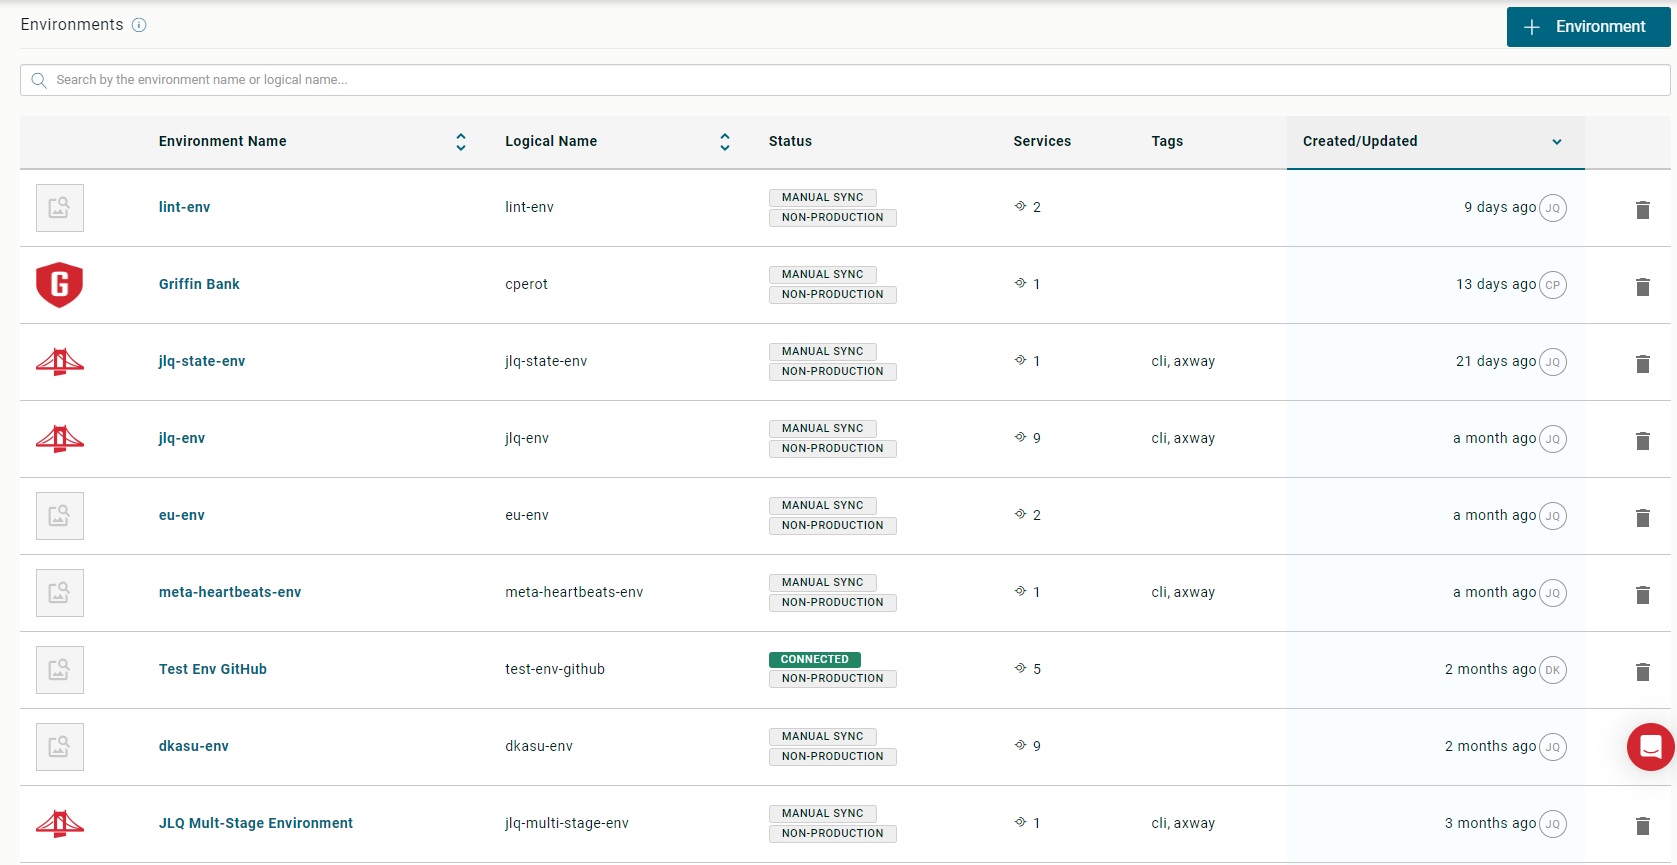
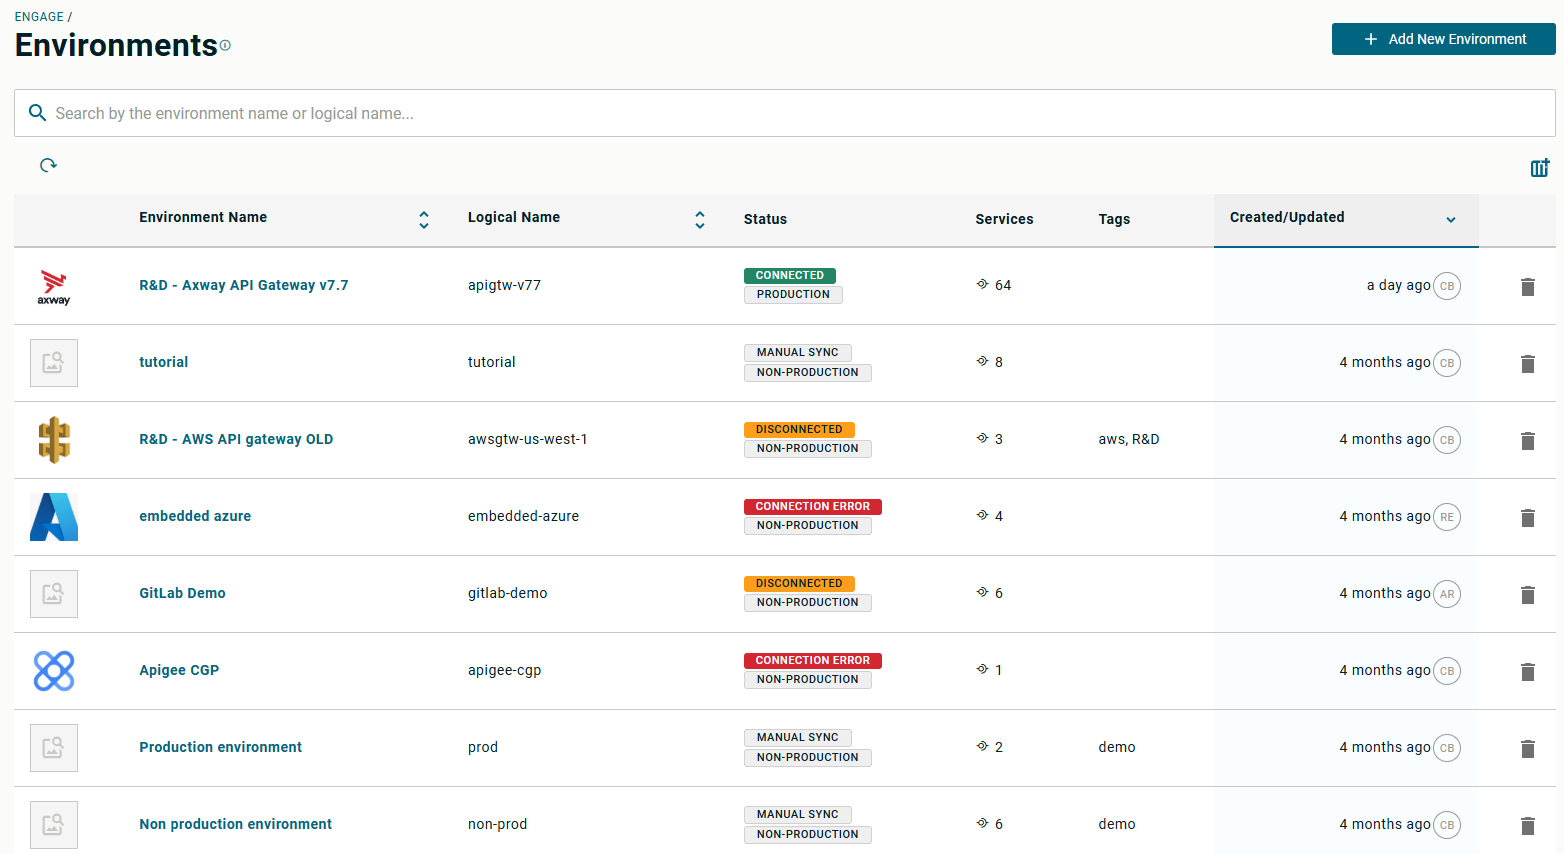
Add New Environment label

diff --git a/content/en/docs/connect_manage_environ/add_environments.md b/content/en/docs/connect_manage_environ/add_environments.md
@@ -11,12 +11,12 @@ Learn how to create an environment to represent your API services and other disc
 ## Add your environment
 
 1. Navigate to *Topology > Environments*.
-2. Click **+ Add New**.
+2. Click **+ Add New Environment**.
 
     ![Environment List Page](/Images/central/EnvironmentListPage.png)
 
     * The Add an Environment wizard is displayed.
-    * The **+ Add New** button is disabled once the total number of environments surpasses the environment entitlement quota.  If no environment entitlement is defined, there is no environment quota enforcement.
+    * The **+ Add New Environment** button is disabled once the total number of environments surpasses the environment entitlement quota.  If no environment entitlement is defined, there is no environment quota enforcement.
 
 3. Add the following Environment Profile information and then click **Next**:
 
